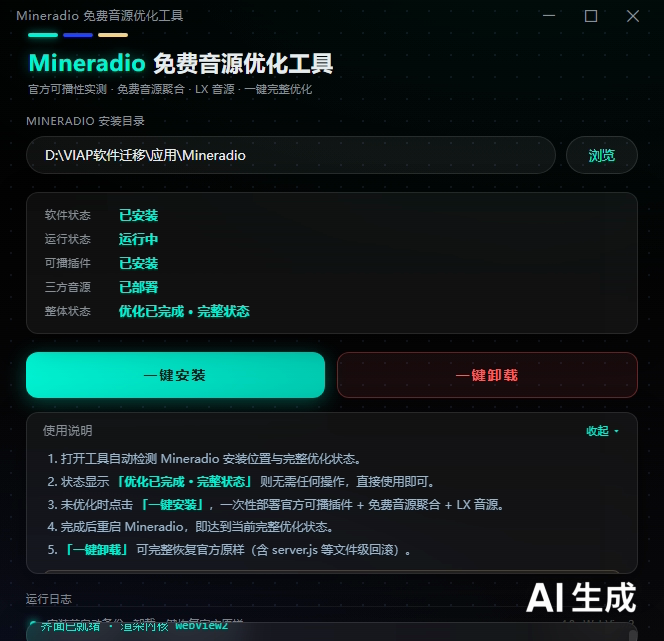
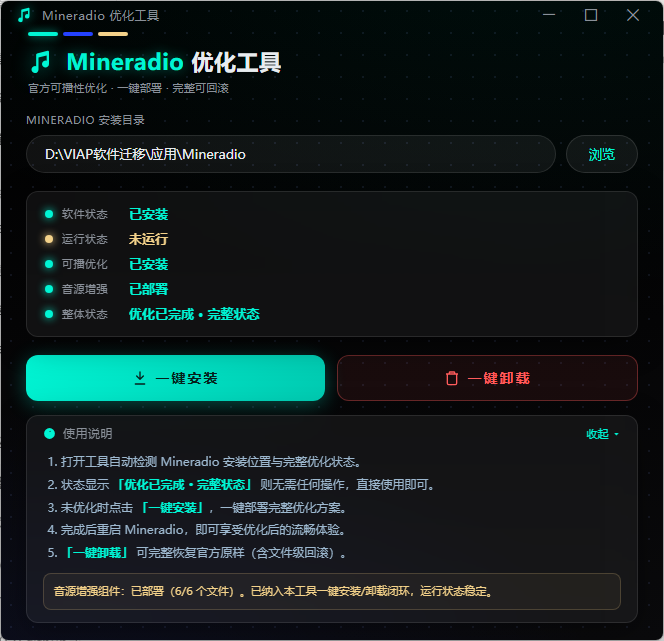
docs: 源码注释低调化（扩展组件表述）+ 替换无AI水印的干净界面截图

diff --git a/mineradio_tool_v4.py b/mineradio_tool_v4.py
@@ -13,8 +13,8 @@ v4.1 增强：
 
 优化内容（相对官方原版 v2.1.0）：
   ① 官方可播性实测插件  plugin-free-source-official-playable.js
-  ② 免费音源聚合        free-source-api.js + free-source-servers.json
-  ③ LX 音源接入         lx-runner.js + lx-source-cache.js
+  ② 播放源扩展          free-source-api.js + free-source-servers.json
+  ③ 扩展音源接入        lx-runner.js + lx-source-cache.js
   ④ 预扫描/URL 预取     06-free-source-prefetch.js
   ⑤ server.js / 11-provider-fallback.js / index-loader.js 注入增强
 
@@ -38,7 +38,7 @@ INDEX_LOADER_REL = os.path.join("public", "js", "index-loader.js")
 HOOK_PATH = "js/modules/08-account/" + PLUGIN_NAME
 ANCHOR = "'js/modules/11-main-loop.js',"
 
-# 三方音源注入文件（相对 resources/app）
+# 扩展组件注入文件（相对 resources/app）
 THIRD_PARTY_FILES = [
     "free-source-api.js",
     "free-source-servers.json",
@@ -127,7 +127,7 @@ def _read_text(path):
 
 
 def detect_status(mineradio_dir):
-    """检测软件安装状态 + 完整优化状态（官方可播插件 + 三方音源）"""
+    """检测软件安装状态 + 完整优化状态"""
     exe = os.path.join(mineradio_dir, "Mineradio.exe")
     app_installed = os.path.isfile(exe)
     app_running = is_app_running() if app_installed else False
@@ -154,7 +154,7 @@ def detect_status(mineradio_dir):
     hooked = HOOK_PATH in _read_text(index_loader)
     plugin_ok = plugin_file and hooked
 
-    # ---- 三方音源检测 ----
+    # ---- 扩展组件检测 ----
     tp_files_ok = all(os.path.isfile(os.path.join(app_dir, f)) for f in THIRD_PARTY_FILES)
     server_ok = SERVER_MARK in _read_text(os.path.join(app_dir, "server.js"))
     fallback_ok = FALLBACK_MARK in _read_text(os.path.join(app_dir, REPLACE_FILES[1]))
@@ -178,7 +178,7 @@ def detect_status(mineradio_dir):
 
 
 def detect_third_party(mineradio_dir):
-    """检测三方音源部署明细（供 UI 展示）"""
+    """检测优化组件部署明细（供 UI 展示）"""
     app_dir = app_dir_of(mineradio_dir)
     present = [f for f in THIRD_PARTY_FILES if os.path.isfile(os.path.join(app_dir, f))]
     return {
@@ -202,7 +202,7 @@ def _backup_current(app_dir, logs):
 
 
 def _install(mineradio_dir):
-    """一键安装完整优化（官方可播插件 + 三方音源），返回 (ok, logs)"""
+    """一键安装完整优化，返回 (ok, logs)"""
     logs = []
     app_dir = app_dir_of(mineradio_dir)
     if not os.path.isdir(app_dir):
@@ -212,7 +212,7 @@ def _install(mineradio_dir):
     # 1. 备份当前文件
     _backup_current(app_dir, logs)
 
-    # 2. 复制三方音源注入文件
+    # 2. 复制扩展组件注入文件
     for rel in THIRD_PARTY_FILES:
         src = resource_path(os.path.join("files", os.path.basename(rel)))
         dst = os.path.join(app_dir, rel)
@@ -263,7 +263,7 @@ def _uninstall(mineradio_dir):
             logs.append({"msg": "错误：无可用恢复源 " + rel, "cls": "err"})
             return False, logs
 
-    # 2. 删除三方音源注入文件
+    # 2. 删除扩展组件注入文件
     for rel in THIRD_PARTY_FILES:
         dst = os.path.join(app_dir, rel)
         if os.path.isfile(dst):
